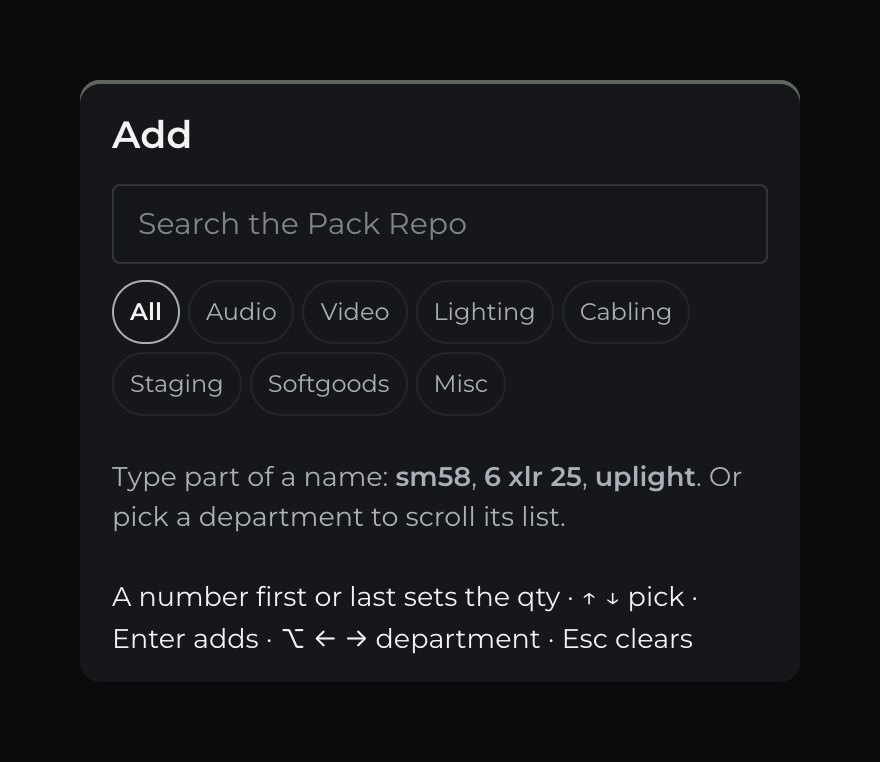
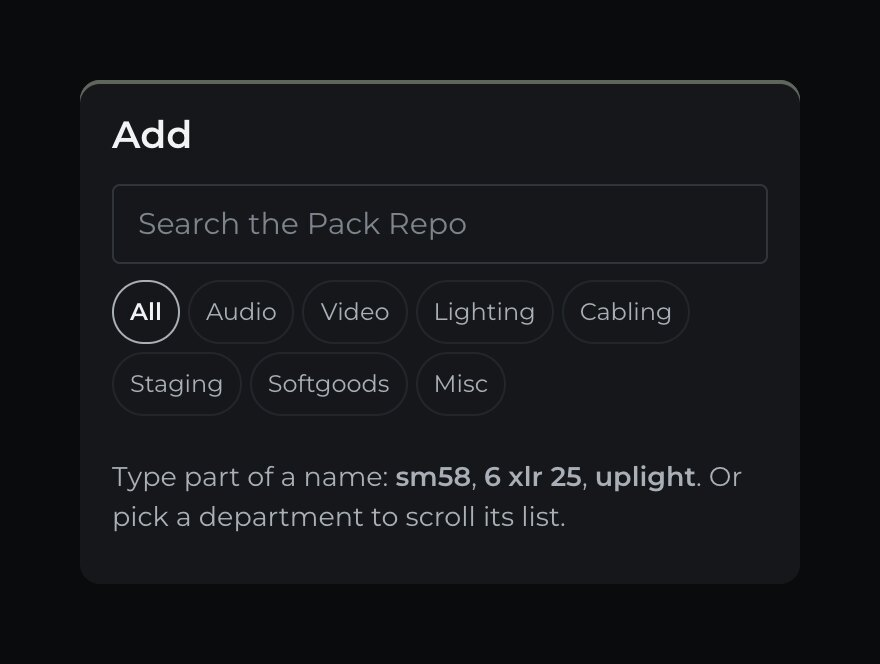
Round 7: second-pass critique - shop/gear vocabulary, readable availability note, two-line hero, cropped Add box and load summary, mosaic order

diff --git a/index.html b/index.html
@@ -26,24 +26,24 @@
 <header class="hero" id="top"><div class="wrap">
   <p class="eyebrow">BSI Production · How we run your event</p>
   <h1 id="h1"><span class="w">Run</span> <span class="w">the</span> <span class="w">whole</span> <span class="w">show</span> <span class="w">like</span> <span class="w">clockwork.</span></h1>
-  <p class="lede">Five apps carry your event from the equipment shop to the last cue on stage. Everyone working it sees the same plan, live, on whatever screen they're holding.</p>
-  <p class="note">BSI builds these apps in-house for its own crew. They aren't sold separately. They come with BSI running your event.</p>
+  <p class="lede">Five apps carry your event from the shop, the warehouse where BSI's gear lives between events, to the last cue on stage. Everyone on the crew sees the same plan, live, on whatever screen they're holding.</p>
+  <p class="note">BSI builds these in-house for its own crew. They aren't for sale; they're part of every event BSI runs.</p>
   <div class="icons">
     <a href="#patchmap"><img src="img/icon-patchmap.png" alt=""><span class="n">PatchMap</span><span class="v">Plan</span></a>
     <a href="#shopcall"><img src="img/icon-shopcall.png" alt=""><span class="n">ShopCall</span><span class="v">Order &amp; pull</span></a>
     <a href="#loader"><img src="img/icon-loader.png" alt=""><span class="n">Loader</span><span class="v">Pack</span></a>
     <a href="#trusstape"><img src="img/icon-trusstape.png" alt=""><span class="n">TrussTape</span><span class="v">Hang</span></a>
-    <a href="#standby"><img src="img/icon-standby.png" alt=""><span class="n">StandBy</span><span class="v">Call the show</span></a>
+    <a href="#standby"><img src="img/icon-standby.png" alt=""><span class="n">StandBy</span><span class="v">Call</span></a>
   </div>
 </div>
 <div class="mosaic" aria-hidden="true"><div class="row" id="mosaic">
-  <div class="m"><img src="img/pm-zoom.jpg" alt=""></div>
-  <div class="m"><img src="img/sc-hero.jpg" alt=""></div>
+  <div class="m"><img src="img/tt-tape-close.jpg" alt=""></div>
   <div class="m"><img src="img/ld-colour.jpg" alt=""></div>
   <div class="m"><img src="img/sb-display.jpg" alt=""></div>
+  <div class="m"><img src="img/pm-zoom.jpg" alt=""></div>
   <div class="m"><img src="img/sc-wall.jpg" alt=""></div>
-  <div class="m"><img src="img/tt-tape-close.jpg" alt=""></div>
   <div class="m"><img src="img/sb-standby.jpg" alt=""></div>
+  <div class="m"><img src="img/sc-hero.jpg" alt=""></div>
 </div></div>
 </header>
 
@@ -65,12 +65,12 @@
     <img src="img/icon-patchmap.png" alt="" data-reveal>
     <p class="eyebrow" data-reveal><b>1 · PatchMap</b> · Plan</p>
     <h2 data-reveal>Draw the rig <em>once.</em></h2>
-    <p class="lede" data-reveal>The rig is every piece of equipment an event needs: consoles, cameras, speakers, screens, and the cables that connect them. In PatchMap, a technician draws it once, and that drawing becomes the cable list, the labels, the packing list and the equipment order.</p>
+    <p class="lede" data-reveal>The rig is every piece of gear an event needs: consoles, cameras, speakers, screens, and the cables that connect them. In PatchMap, a technician draws it once, and that drawing becomes the cable list, the labels, the packing list and the gear order.</p>
   </div>
   <div class="feats">
     <div class="feat">
       <div class="txt" data-reveal><div class="k">The drawing</div><h3>Drag in the gear. Click to connect it.</h3>
-        <p>Pick equipment from a library of the gear BSI owns and drop it in place. Click one connection point, then another, and the cable is drawn.</p>
+        <p>Pick from a library of the gear BSI owns and drop it in place. Click one connection point, then another, and the cable is drawn.</p>
         <ul><li>Every device comes with its real connections</li><li>It warns you when two plugs won't fit together</li></ul></div>
       <div class="vis"><div class="shot"><img src="img/pm-zoom.jpg" alt="Close-up of a video router wired to cameras, every connection labelled" loading="lazy"></div></div>
     </div>
@@ -81,7 +81,7 @@
     </div>
     <div class="feat has-sub">
       <div class="txt" data-reveal><div class="k">The order</div><h3>Send the packing list straight to the shop.</h3>
-        <p>Everything the event needs, grouped by where it goes. One click sends it to ShopCall, which checks it against what's actually on the shelves.</p></div>
+        <p>Everything the event needs, grouped by where it goes. One click sends it to ShopCall to become the gear order.</p></div>
       <div class="vis"><div class="shot"><img src="img/pm-pack.jpg" alt="Packing list for an event" loading="lazy"></div>
         <div class="shot sub" style="--w:400px;--b:-22%;--r:-6%"><img src="img/sc-frompm.jpg" alt="ShopCall with packing lists waiting from PatchMap" loading="lazy"></div></div>
     </div>
@@ -90,7 +90,7 @@
   <div class="why">
     <div data-reveal><div class="ic"><svg viewBox="0 0 24 24"><path d="M12 3l9 5-9 5-9-5z"/><path d="M3 13l9 5 9-5"/></svg></div><h4>Draw once, print everything</h4><p>The drawing, cable list, labels and packing list all come from the same plan.</p></div>
     <div data-reveal><div class="ic"><svg viewBox="0 0 24 24"><path d="M12 3l10 18H2z"/><path d="M12 10v4M12 17h.01"/></svg></div><h4>Catches mistakes early</h4><p>Unlabeled cables and gear with nothing plugged in get flagged before load-in.</p></div>
-    <div data-reveal><div class="ic"><svg viewBox="0 0 24 24"><path d="M5 12l5 5L20 7"/></svg></div><h4>Knows what the shop has</h4><p>Stock is checked against the shelves before anything is ordered.</p></div>
+    <div data-reveal><div class="ic"><svg viewBox="0 0 24 24"><path d="M5 12l5 5L20 7"/></svg></div><h4>Labels in one click</h4><p>Every cable gets a printed label that matches the list, so nothing gets plugged in wrong.</p></div>
   </div>
 </div></section>
 
@@ -98,14 +98,14 @@
   <div class="app-head">
     <img src="img/icon-shopcall.png" alt="" data-reveal>
     <p class="eyebrow" data-reveal><b>2 · ShopCall</b> · Order the gear · web, iPhone, Android</p>
-    <h2 data-reveal>Run the equipment shop <em>off paper.</em></h2>
-    <p class="lede" data-reveal>Everything your event uses lives in BSI's equipment shop until show day. ShopCall is how the crew orders it, pulls it off the shelves, loads it and checks it back in, with everyone looking at the same live list.</p>
+    <h2 data-reveal>Run the shop <em>off paper.</em></h2>
+    <p class="lede" data-reveal>Everything your event uses lives on BSI's shelves until show day. ShopCall is how the crew orders it, pulls it, loads it and checks it back in, with everyone looking at the same live list.</p>
   </div>
   <div class="feats">
     <div class="feat">
-      <div class="txt" data-reveal><div class="k">Order Builder</div><h3>Build the equipment order in minutes.</h3>
-        <p>Type what you need the way you'd say it: six microphones is just <code>6 sm58</code>. Every line shows how many are actually free on your dates, so a shortage shows up before anyone packs a truck.</p></div>
-      <div class="vis"><div class="shot" style="--mw:460px"><img src="img/sc-add.jpg" alt="The Add box: type part of a name, like 6 xlr 25" loading="lazy"></div></div>
+      <div class="txt" data-reveal><div class="k">Order Builder</div><h3>Build the gear list in minutes.</h3>
+        <p>Type what you need the way you'd say it: to add six microphones, type <code>6&nbsp;sm58</code> and press Enter. Every line shows how many are actually free on your dates, so a shortage shows up before anyone packs a truck.</p></div>
+      <div class="vis"><div class="shot" style="--mw:560px"><img src="img/sc-add.jpg" alt="The Add box: type part of a name, like 6 xlr 25" loading="lazy"></div></div>
     </div>
     <div class="feat">
       <div class="txt" data-reveal><div class="k">Pull &amp; check-in</div><h3>Pull it line by line. Check it back in the same way.</h3>
@@ -115,13 +115,13 @@
     </div>
     <div class="feat">
       <div class="txt" data-reveal><div class="k">Today &amp; the wall</div><h3>Everyone knows what needs them.</h3>
-        <p>Technicians, the office and the planning desk each open ShopCall to a home screen of what needs them today. A big screen in the shop shows every event going out and coming back, readable from across the room.</p></div>
+        <p>Technicians, the office and the desk each open ShopCall to a home screen of what needs them today. A big screen in the shop shows every event going out and coming back, readable from across the room.</p></div>
       <div class="vis"><div class="shot"><img src="img/sc-wall.jpg" alt="Shop wall display: three events being pulled and one coming back" loading="lazy"></div></div>
     </div>
   </div>
 
   <div class="why">
-    <div data-reveal><div class="ic"><svg viewBox="0 0 24 24"><circle cx="12" cy="12" r="9"/><path d="M12 7v5l3 2"/></svg></div><h4>One live list</h4><p>The planning desk, the office and the shop floor see the same order the moment it changes.</p></div>
+    <div data-reveal><div class="ic"><svg viewBox="0 0 24 24"><circle cx="12" cy="12" r="9"/><path d="M12 7v5l3 2"/></svg></div><h4>One live list</h4><p>The desk, the office and the shop floor see the same order the moment it changes.</p></div>
     <div data-reveal><div class="ic"><svg viewBox="0 0 24 24"><rect x="7" y="2" width="10" height="20" rx="2"/><path d="M11 18h2"/></svg></div><h4>Built for phones</h4><p>An app on iPhone and Android, with a scanner for the QR tag on every case.</p></div>
     <div data-reveal><div class="ic"><svg viewBox="0 0 24 24"><circle cx="9" cy="8" r="3"/><path d="M3 20c0-3 3-5 6-5s6 2 6 5"/><path d="M16 5a3 3 0 010 6M21 20c0-2-1.5-4-4-4.6"/></svg></div><h4>Right view for each role</h4><p>Technicians, the office and the desk each see what they need and nothing they don't.</p></div>
   </div>
@@ -132,14 +132,14 @@
     <img src="img/icon-loader.png" alt="" data-reveal>
     <p class="eyebrow" data-reveal><b>3 · Loader</b> · Pack the truck</p>
     <h2 data-reveal>Pack the truck <em>before anyone lifts a case.</em></h2>
-    <p class="lede" data-reveal>Show equipment travels in road cases: sturdy boxes on wheels, some heavy, some fragile, some that can't be stacked. Loader plans exactly where each one goes in the truck, in 3D, before the crew starts loading.</p>
+    <p class="lede" data-reveal>Everything for a show travels in road cases: sturdy boxes on wheels, some heavy, some fragile, some that can't be stacked. Loader plans exactly where each one goes in the truck, in 3D, before the crew starts loading.</p>
   </div>
   <div class="feats">
     <div class="feat has-sub">
       <div class="txt" data-reveal><div class="k">3D plan</div><h3>See the whole load, front to back.</h3>
         <p>Loader knows the size, weight and rules of every case BSI owns. It blocks unsafe stacks, finds the smallest truck that fits, and builds the loading order as you go.</p></div>
       <div class="vis"><div class="shot"><img src="img/ld-truck.jpg" alt="A 26-foot truck packed with numbered cases in 3D" loading="lazy"></div>
-        <div class="shot sub" style="--w:280px;--b:-18%;--r:-6%"><img src="img/ld-insp.jpg" alt="This load: 39 percent of the space used, and the loading order" loading="lazy"></div></div>
+        <div class="shot sub" style="--w:300px;--b:-16%;--r:-6%"><img src="img/ld-insp.jpg" alt="This load: 39 percent of the space used, and the loading order" loading="lazy"></div></div>
     </div>
     <div class="feat">
       <div class="txt" data-reveal><div class="k">What's inside</div><h3>Spot the speakers from across the room.</h3>
@@ -156,7 +156,7 @@
   <div class="why">
     <div data-reveal><div class="ic"><svg viewBox="0 0 24 24"><path d="M2 6h12v10H2zM14 10h4l3 3v3h-7"/><circle cx="6" cy="18" r="2"/><circle cx="17" cy="18" r="2"/></svg></div><h4>Smallest truck that fits</h4><p>It tries every truck and picks the smallest one that holds the whole event.</p></div>
     <div data-reveal><div class="ic"><svg viewBox="0 0 24 24"><path d="M12 3l10 18H2z"/><path d="M12 10v4M12 17h.01"/></svg></div><h4>Safe stacks only</h4><p>Heavy on light, fragile under weight, cases that must stay upright: all blocked.</p></div>
-    <div data-reveal><div class="ic"><svg viewBox="0 0 24 24"><path d="M6 9V3h12v6"/><rect x="3" y="9" width="18" height="8" rx="2"/><path d="M7 14h10v7H7z"/></svg></div><h4>Labels and checklist</h4><p>Every case gets a label in your event's color, plus a checklist for the crew.</p></div>
+    <div data-reveal><div class="ic"><svg viewBox="0 0 24 24"><path d="M6 9V3h12v6"/><rect x="3" y="9" width="18" height="8" rx="2"/><path d="M7 14h10v7H7z"/></svg></div><h4>Labels and checklist</h4><p>Every case gets a color-coded label for your event, plus a checklist for the crew.</p></div>
   </div>
 </div></section>
 
@@ -192,7 +192,7 @@
     <img src="img/icon-standby.png" alt="" data-reveal>
     <p class="eyebrow" data-reveal><b>5 · StandBy</b> · Call the show</p>
     <h2 data-reveal>Call the show. <em>Every GO on the Space bar.</em></h2>
-    <p class="lede" data-reveal>A live show runs on cues: the moments the lights change, a video rolls or a speaker walks on. One person, the show caller, says “GO” for each one. StandBy is the show's running order, live. The caller presses the Space bar to move the show forward, and everyone backstage sees where you are, what's next, and whether you're on time.</p>
+    <p class="lede" data-reveal>A live show runs on cues: the moment the lights change, a video rolls, a speaker walks on. One person, the show caller, says GO for each one. In StandBy the caller presses the Space bar for every GO, and everyone backstage sees where the show is, what's next and whether it's on time.</p>
   </div>
   <div class="feats">
     <div class="feat has-sub">
@@ -226,7 +226,7 @@
   <div class="why">
     <div data-reveal><div class="ic"><svg viewBox="0 0 24 24"><path d="M12 3l8 4v5c0 5-3.5 8-8 9-4.5-1-8-4-8-9V7z"/></svg></div><h4>Never changes mid-show</h4><p>The apps only update between shows, and any update can be undone in one click.</p></div>
     <div data-reveal><div class="ic"><svg viewBox="0 0 24 24"><rect x="7" y="2" width="10" height="20" rx="2"/><path d="M11 18h2"/></svg></div><h4>Works on what you're holding</h4><p>Laptops, tablets and phones all see the same plan. Most people just open a link.</p></div>
-    <div data-reveal><div class="ic"><svg viewBox="0 0 24 24"><path d="M4 12h16M12 4v16"/></svg></div><h4>Built by the crew who use it</h4><p>BSI's own technicians design and test these on real events, and they change as the work does.</p></div>
+    <div data-reveal><div class="ic"><svg viewBox="0 0 24 24"><circle cx="9" cy="8" r="3"/><path d="M3 20c0-3 3-5 6-5s6 2 6 5"/><path d="M16 5a3 3 0 010 6M21 20c0-2-1.5-4-4-4.6"/></svg></div><h4>Built by the crew who use it</h4><p>BSI's own technicians design and test these on real events, and they change as the work does.</p></div>
   </div>
 </div></section>
 
@@ -236,7 +236,7 @@
     <details><summary>Can I use these apps for my event?</summary><p>Yes, by having BSI Production run it. The apps come with BSI's crew and aren't sold or licensed separately.</p></details>
     <details><summary>What kinds of events are they built for?</summary><p>Corporate events, galas, conferences, campus events, concerts and installs. Anything with sound, lighting, video and a running order.</p></details>
     <details><summary>Does my team need to install anything?</summary><p>No. Your team can follow the show from any phone or laptop by scanning a QR code or opening a link.</p></details>
-    <details><summary>What happens when the plan changes at the last minute?</summary><p>Change it once. Every phone and screen looking at that plan updates instantly, from the equipment shop to backstage.</p></details>
+    <details><summary>What happens when the plan changes at the last minute?</summary><p>Change it once. Every phone and screen looking at that plan updates instantly, from the shop to backstage.</p></details>
     <details><summary>Does the show depend on the internet?</summary><p>No. StandBy runs the show over the venue's local Wi-Fi. The shop tools use the internet, but they're done before doors open.</p></details>
     <details><summary>Who built them?</summary><p>BSI Production's own crew, for the way BSI actually works. They replace spreadsheets, printouts and a lot of phone calls.</p></details>
   </div>

diff --git a/styles.css b/styles.css
@@ -45,7 +45,7 @@ code,.kbd{font:500 .9em var(--mono);color:var(--fg);background:var(--raised);pad
   radial-gradient(30% 30% at 55% 70%,rgba(63,179,167,.12),transparent 70%),
   radial-gradient(28% 28% at 30% 80%,rgba(240,146,74,.12),transparent 70%)}
 .hero .wrap{position:relative}
-.hero h1{font-size:clamp(40px,8vw,104px);font-weight:800;letter-spacing:-.035em;line-height:.98;margin:18px auto 22px;max-width:14ch}
+.hero h1{font-size:clamp(40px,7vw,96px);font-weight:800;letter-spacing:-.035em;line-height:.98;margin:18px auto 22px;max-width:18ch}
 .hero h1 .w{display:inline-block}
 .hero .lede{font-size:clamp(17px,2.2vw,23px);color:var(--muted);max-width:46ch;margin:0 auto;font-weight:500;line-height:1.45}
 .icons{display:flex;justify-content:center;gap:clamp(14px,3vw,36px);margin:56px auto 0;flex-wrap:wrap}
@@ -187,4 +187,6 @@ html:not(.js) .shot{opacity:1;transform:none}
 }
 
 @media (max-width:640px){.shot.sub{display:none}.feat.has-sub{margin-bottom:0}.vis.phones .shot.panel{display:none}.vis.phones .shot.ph{width:78%}}
-.hero .note{margin:18px auto 0;font-size:14px;color:var(--faint);max-width:52ch}
+.hero .note{margin:14px auto 0;font-size:clamp(16px,1.8vw,19px);color:var(--fg);font-weight:600;max-width:52ch}
+
+.kit .why{margin-top:36px}
